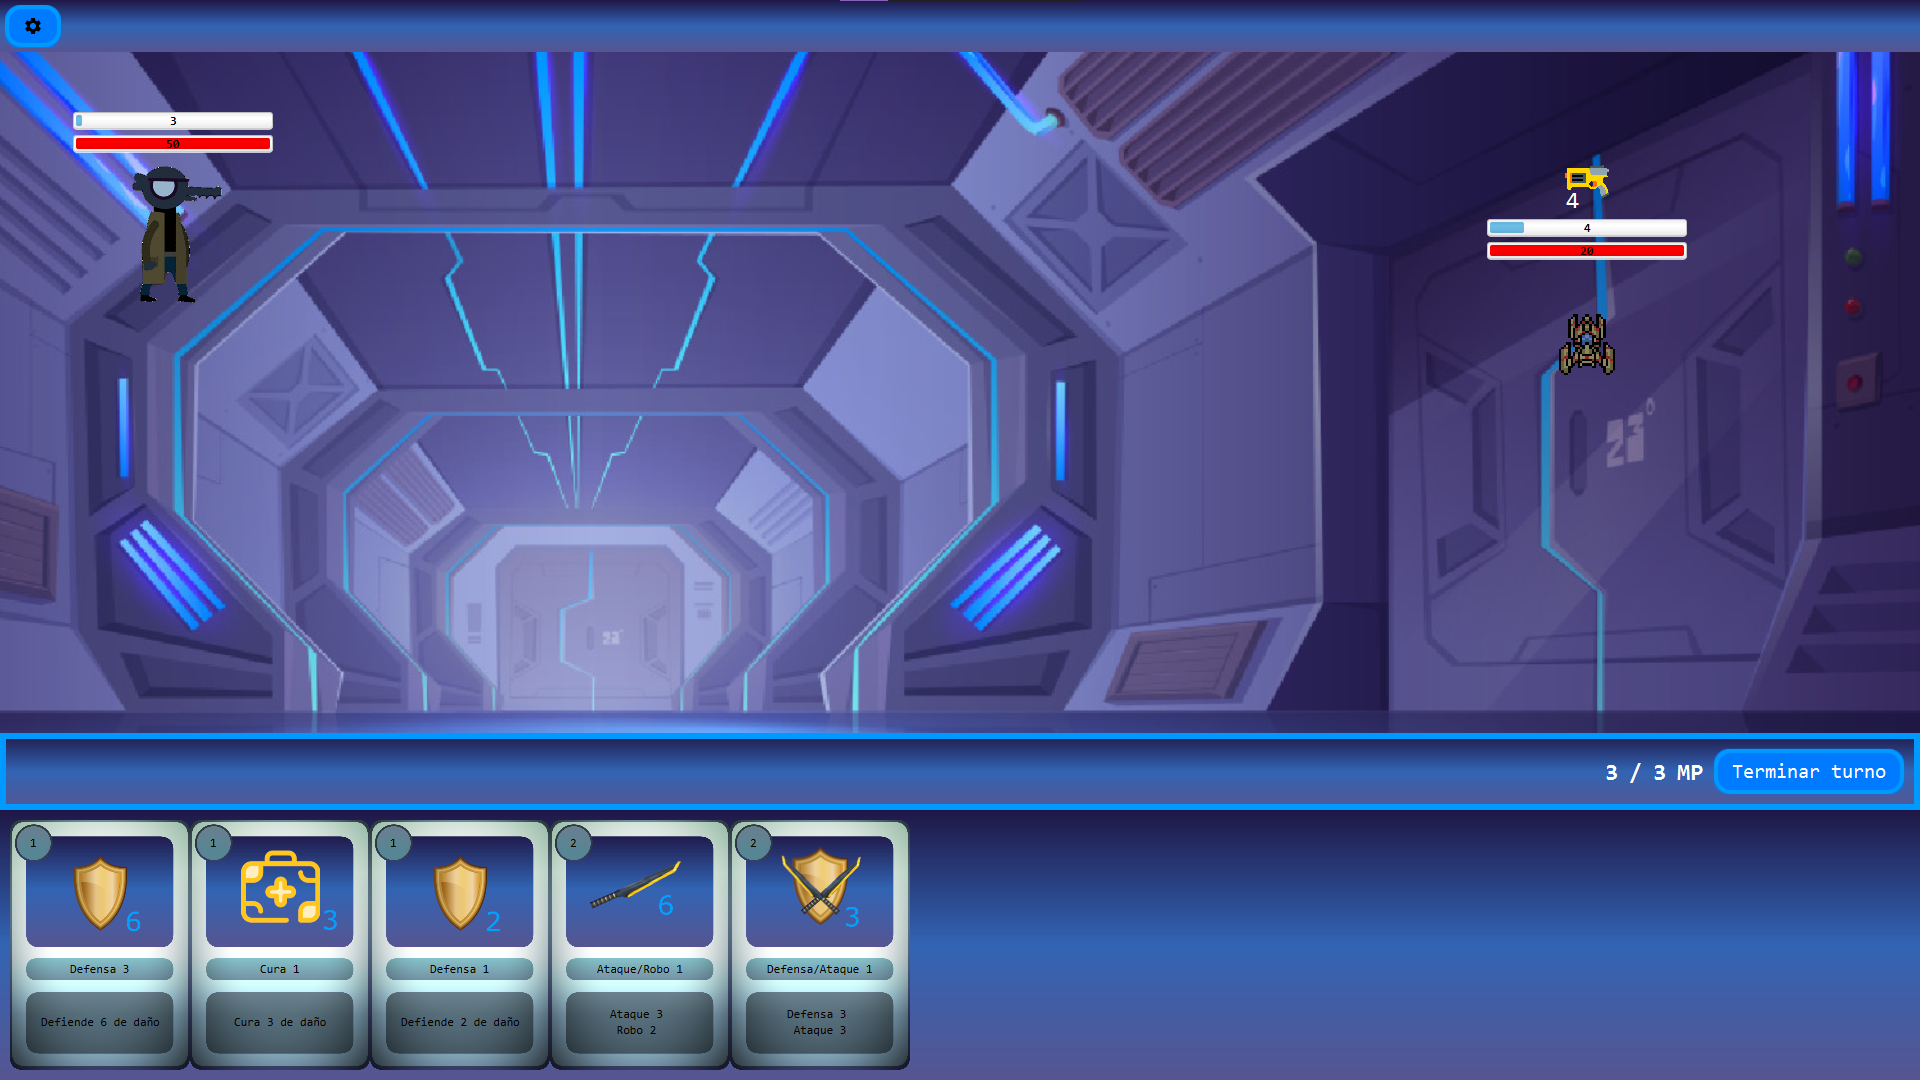
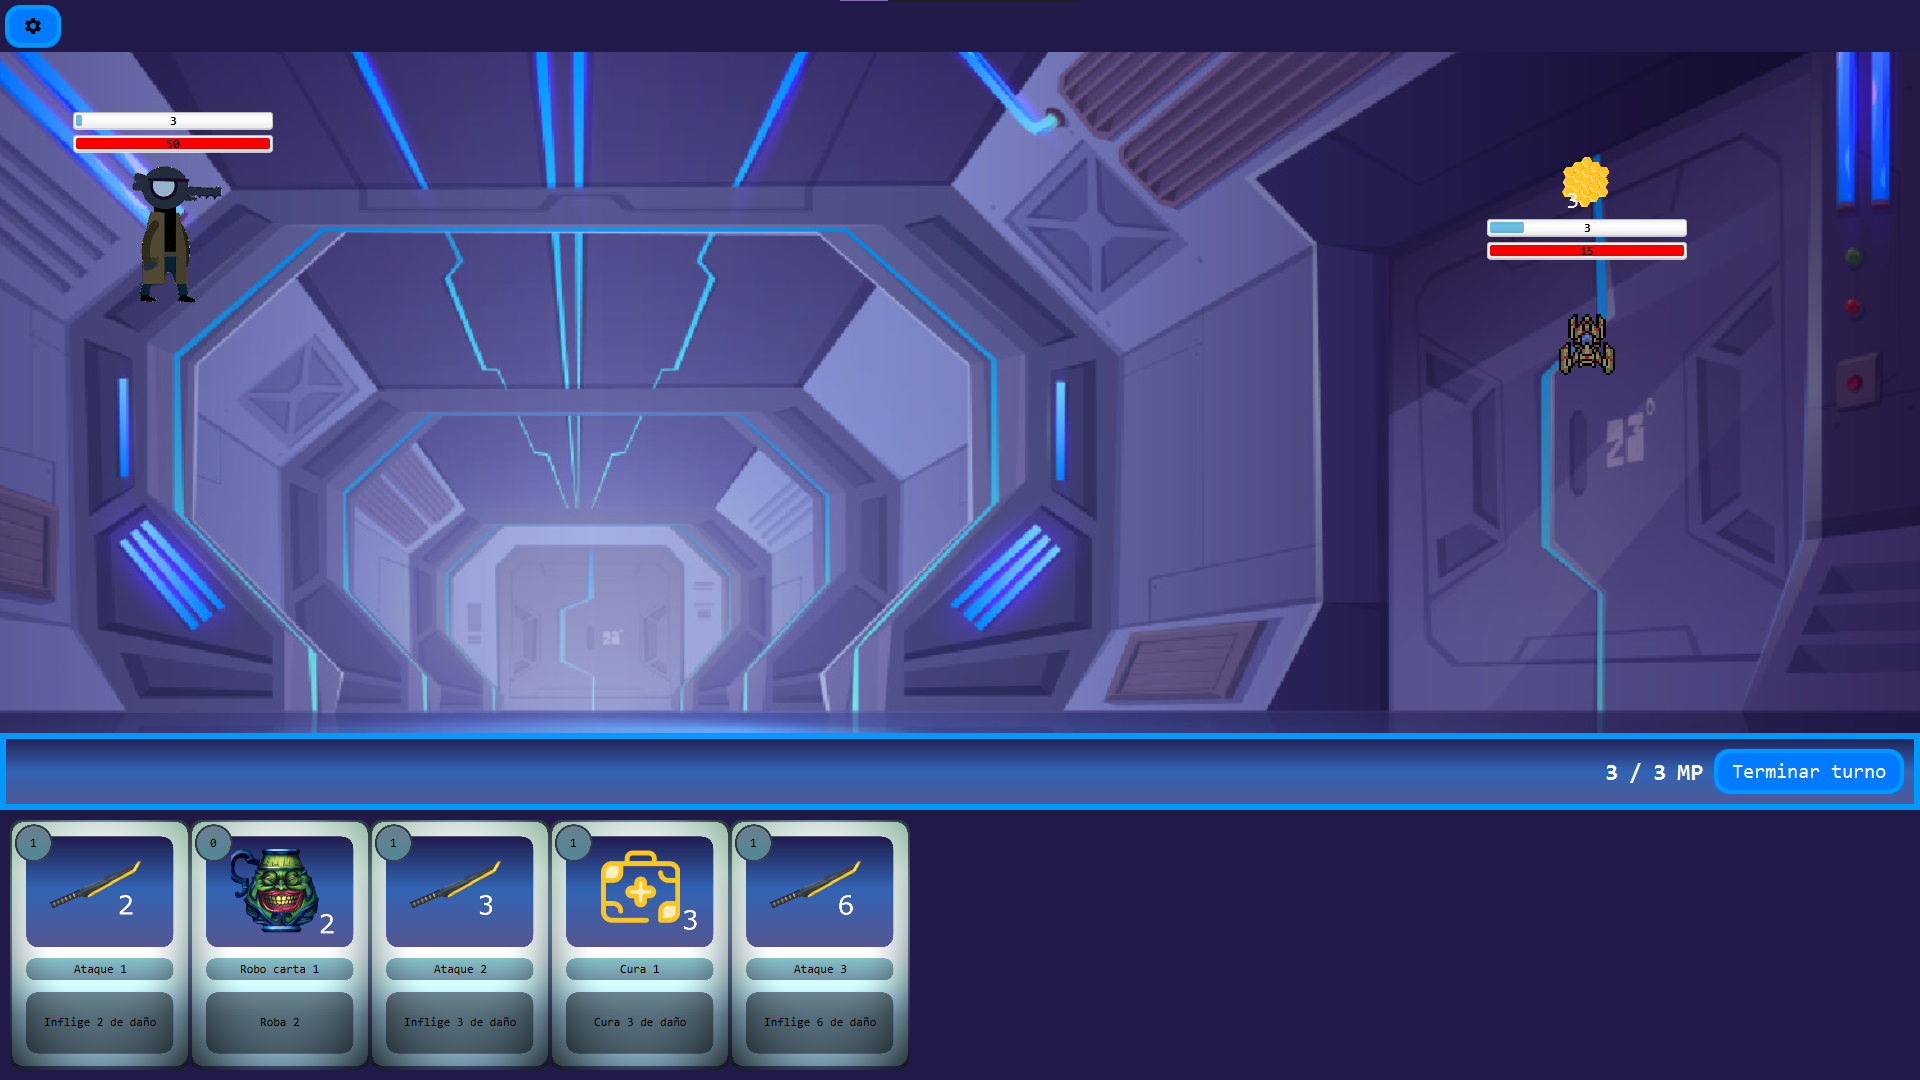
Retoque en el css del combate

diff --git a/src/main/resources/css/gonzacker.css b/src/main/resources/css/gonzacker.css
@@ -71,12 +71,8 @@
     -fx-border-width: 6;
 }
 
-.combat-toolbar{
-    -fx-background-color: linear-gradient(from 0% 0% to 0% 100%, rgb(31, 23, 70), rgb(50, 100, 180), rgb(86, 85, 145));
-}
-
 .combat-cartas{
-    -fx-background-color: linear-gradient(from 0% 0% to 0% 100%, rgb(31, 23, 70), rgb(50, 100, 180), rgb(86, 85, 145));
+    -fx-background-color: #211948;
 }
 
 .shop-gridpane{
